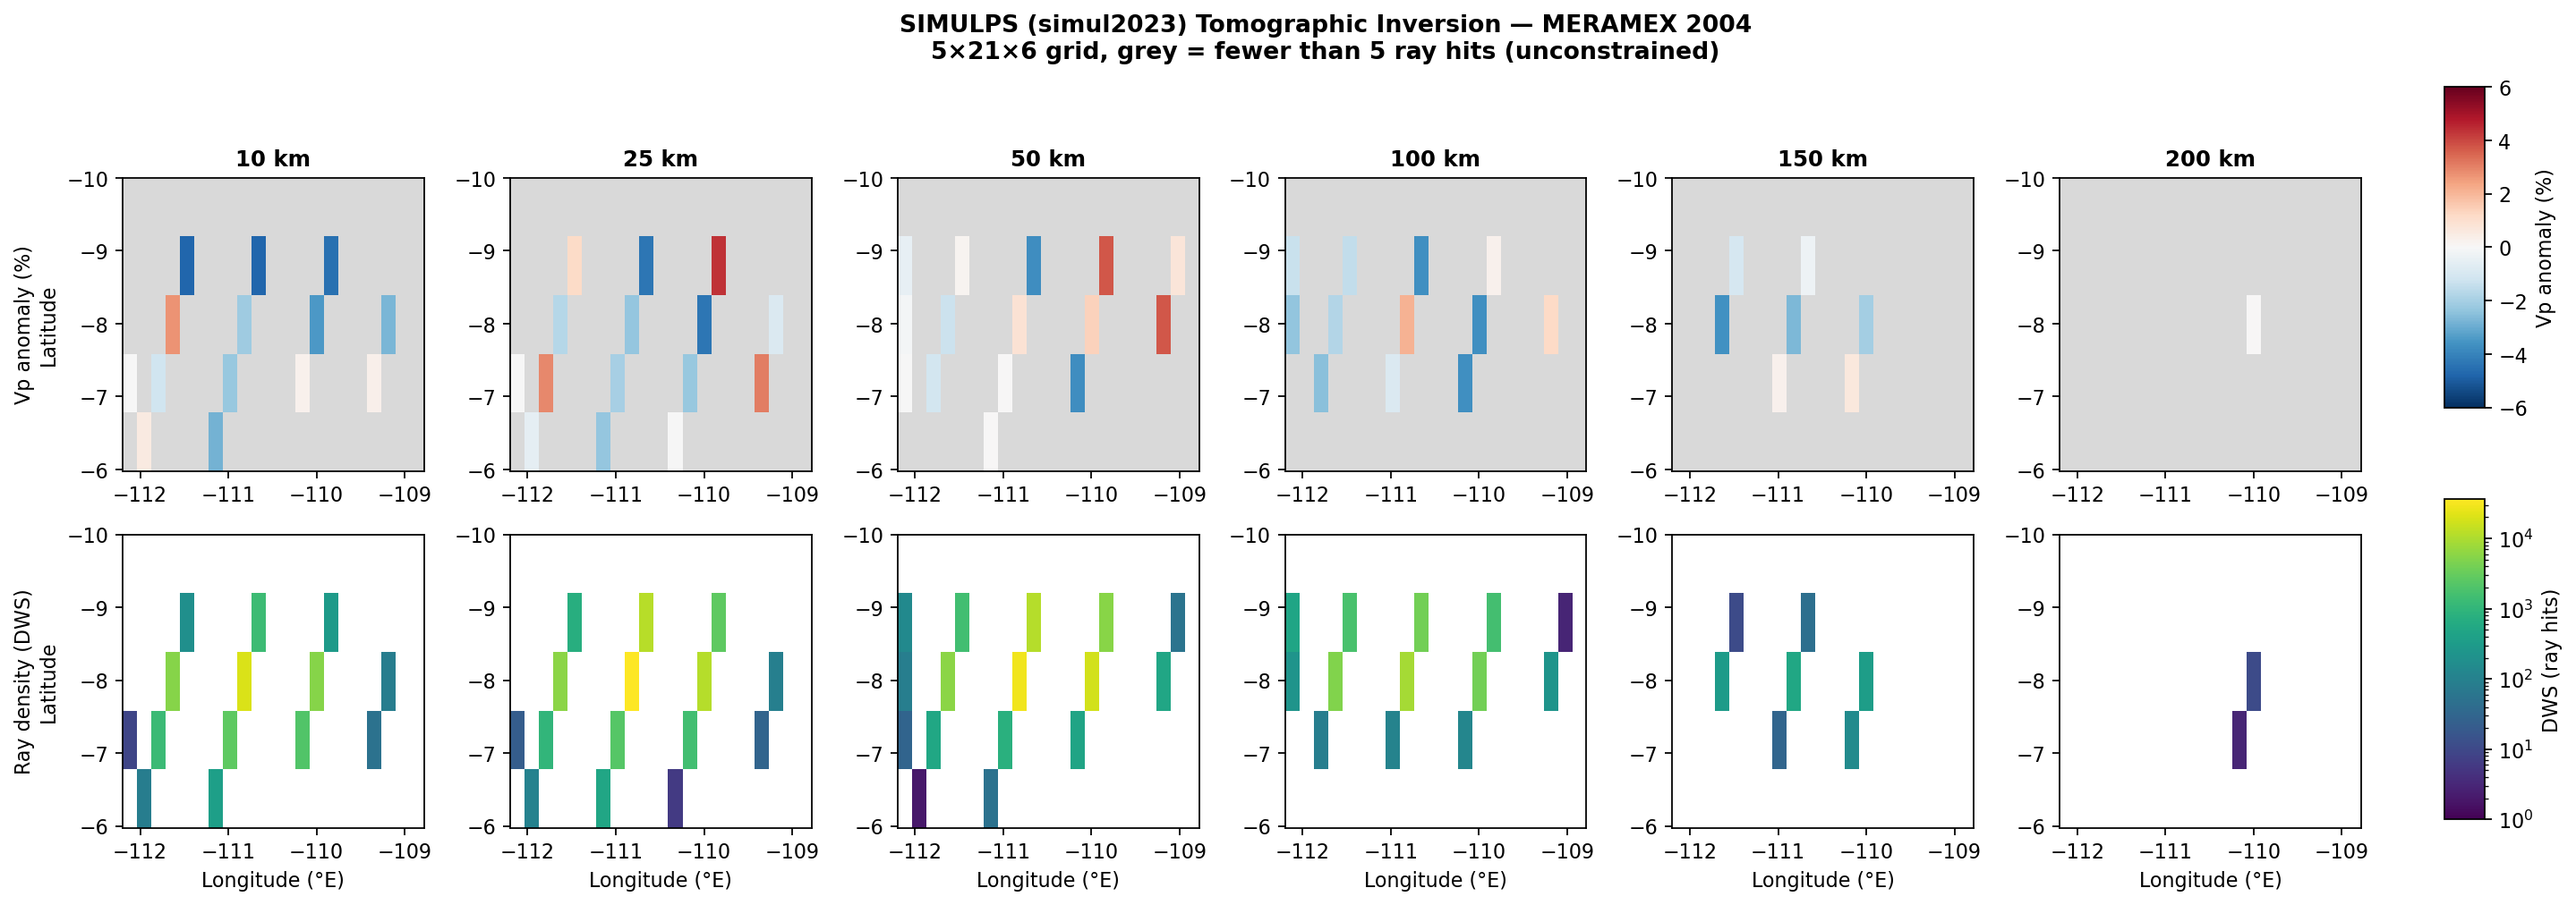
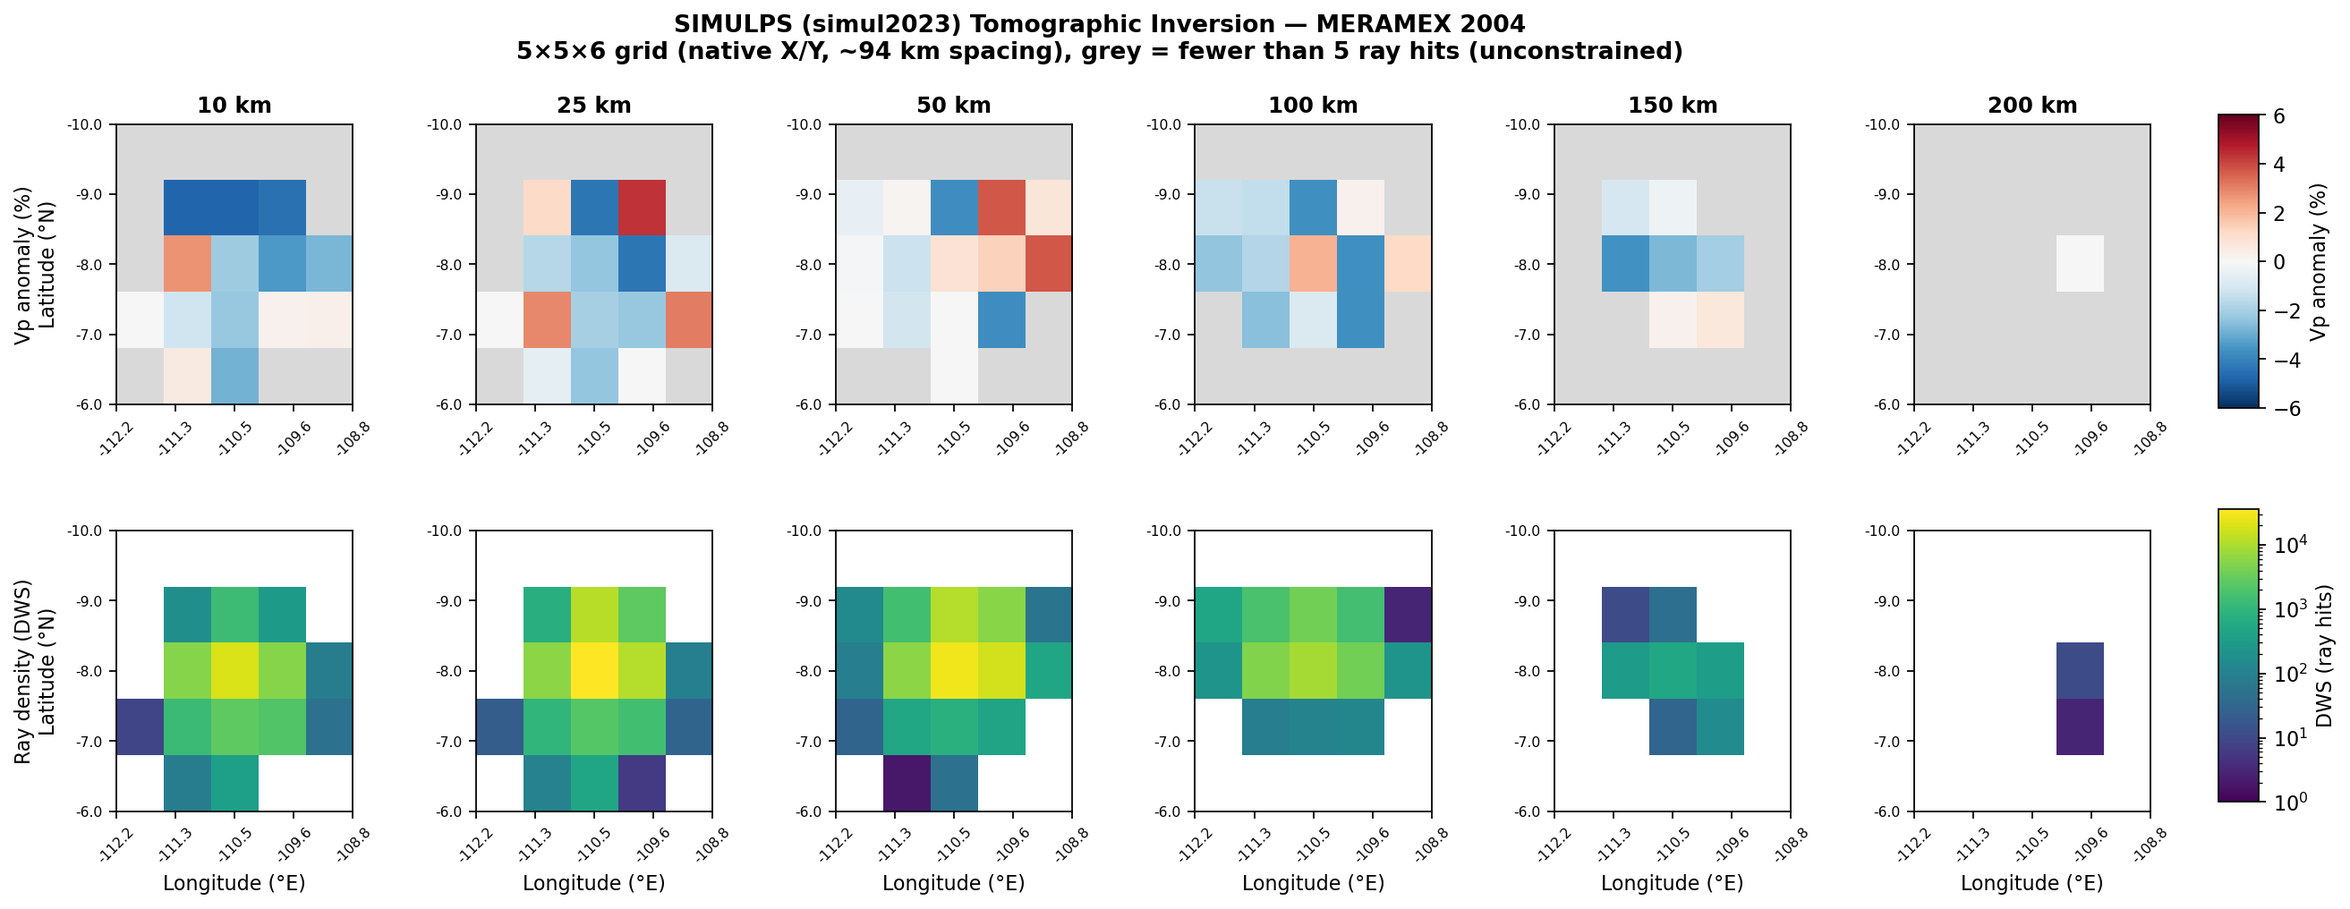
Fix SIMULPS depth-slice plot: pivot on X/Y, not lat/lon
vlxyzltln.out's short-distance conversion scales east-west distance by
cos(latitude), so the same grid column (fixed X) reports a slightly
different longitude at every row -- pivoting directly on lat/lon
fragmented 5 real columns into 21 near-duplicate ones, producing narrow
stripes with grey gaps everywhere else. Pivot on the native X/Y Cartesian
grid instead (exact, since that's what simul2023 actually inverted on)
and relabel axis ticks in lat/lon from the corner values only.

diff --git a/MERAMEX_2004/scripts/plot_simulps_model.py b/MERAMEX_2004/scripts/plot_simulps_model.py
@@ -1,6 +1,14 @@
 #!/usr/bin/env python3
 """Plot depth slices from a SIMULPS (simul2023) vlxyzltln.out velocity table.
 
+Pivots on the native X/Y Cartesian grid (km from the origin), not on
+lat/lon: simul2023's short-distance conversion scales east-west distance by
+cos(latitude), so the same X column maps to a slightly different longitude
+at every row -- pivoting on lat/lon directly fragments each column into as
+many spurious columns as there are rows. Axis ticks are relabelled in
+lat/lon using the corner values only, which is exact since X and Y are the
+true rectangular grid.
+
 Usage:
   plot_simulps_model.py --vlxyz ../simulps/inversion/vlxyzltln.out
       --out ../figures/simulps_velocity_slices.png
@@ -26,53 +34,61 @@ def main():
 
     df = pd.read_csv(a.vlxyz, skiprows=2, sep=r"\s+", names=COLS)
     depths = sorted(df.z.unique())
-    depths = [d for d in depths if d > 0]  # skip the -5/edge layer if present
+    depths = [d for d in depths if d > 0]  # skip the surface/edge layer
 
-    nlat = df.lat.nunique()
-    nlon = df.lon.nunique()
-    lat_u = np.sort(df.lat.unique())
-    lon_u = np.sort(df.lon.unique())
+    x_u = np.sort(df.x.unique())
+    y_u = np.sort(df.y.unique())
+
+    # lat/lon corner lookup for axis labelling only (exact at the grid corners)
+    corner = df[(df.z == depths[0])]
+    lon_at = {x: corner.loc[(corner.x == x) & (corner.y == y_u[0]), "lon"].iloc[0] for x in x_u}
+    lat_at = {y: corner.loc[(corner.y == y) & (corner.x == x_u[0]), "lat"].iloc[0] for y in y_u}
 
     fig, axes = plt.subplots(2, len(depths), figsize=(3.1 * len(depths), 6.4))
 
+    im = imD = None
     for i, z in enumerate(depths):
         sub = df[df.z == z]
-        piv_vp = sub.pivot(index="lat", columns="lon", values="vp").reindex(
-            index=lat_u, columns=lon_u)
-        piv_dws = sub.pivot(index="lat", columns="lon", values="vp_dws").reindex(
-            index=lat_u, columns=lon_u)
+        piv_vp = sub.pivot(index="y", columns="x", values="vp").reindex(index=y_u, columns=x_u)
+        piv_dws = sub.pivot(index="y", columns="x", values="vp_dws").reindex(index=y_u, columns=x_u)
         vp0 = piv_vp.values[piv_dws.values <= a.min_dws]
         vp0 = np.nanmedian(vp0) if vp0.size else np.nanmedian(piv_vp.values)
         pct = 100.0 * (piv_vp.values - vp0) / vp0
         mask = piv_dws.values <= a.min_dws
 
+        extent = [x_u[0], x_u[-1], y_u[-1], y_u[0]]
+
         axT = axes[0, i]
-        im = axT.imshow(np.ma.masked_where(mask, pct), extent=[lon_u[0], lon_u[-1], lat_u[-1], lat_u[0]],
-                        aspect="auto", cmap="RdBu_r", vmin=-6, vmax=6, interpolation="nearest")
+        im = axT.imshow(np.ma.masked_where(mask, pct), extent=extent,
+                        aspect="equal", cmap="RdBu_r", vmin=-6, vmax=6,
+                        interpolation="nearest", origin="upper")
         axT.set_facecolor("0.85")
         axT.set_title(f"{z:.0f} km", fontsize=11, fontweight="bold")
+        axT.set_xticks(x_u); axT.set_xticklabels([f"{lon_at[x]:.1f}" for x in x_u], rotation=45, fontsize=7)
+        axT.set_yticks(y_u); axT.set_yticklabels([f"{lat_at[y]:.1f}" for y in y_u], fontsize=7)
         if i == 0:
-            axT.set_ylabel("Vp anomaly (%)\nLatitude")
-        axT.set_xlabel("")
+            axT.set_ylabel("Vp anomaly (%)\nLatitude (°N)")
 
         axB = axes[1, i]
-        imD = axB.imshow(piv_dws.values, extent=[lon_u[0], lon_u[-1], lat_u[-1], lat_u[0]],
-                         aspect="auto", cmap="viridis", norm=matplotlib.colors.LogNorm(
-                             vmin=1, vmax=max(df.vp_dws.max(), 2)))
+        imD = axB.imshow(piv_dws.values, extent=extent, aspect="equal", cmap="viridis",
+                         norm=matplotlib.colors.LogNorm(vmin=1, vmax=max(df.vp_dws.max(), 2)),
+                         origin="upper")
+        axB.set_xticks(x_u); axB.set_xticklabels([f"{lon_at[x]:.1f}" for x in x_u], rotation=45, fontsize=7)
+        axB.set_yticks(y_u); axB.set_yticklabels([f"{lat_at[y]:.1f}" for y in y_u], fontsize=7)
         axB.set_xlabel("Longitude (°E)")
         if i == 0:
-            axB.set_ylabel("Ray density (DWS)\nLatitude")
+            axB.set_ylabel("Ray density (DWS)\nLatitude (°N)")
 
-    cbar_ax = fig.add_axes([0.92, 0.55, 0.015, 0.35])
+    fig.subplots_adjust(right=0.90, top=0.86, wspace=0.35, hspace=0.45)
+    cbar_ax = fig.add_axes([0.92, 0.55, 0.015, 0.32])
     fig.colorbar(im, cax=cbar_ax, label="Vp anomaly (%)")
-    cbar_ax2 = fig.add_axes([0.92, 0.1, 0.015, 0.35])
+    cbar_ax2 = fig.add_axes([0.92, 0.12, 0.015, 0.32])
     fig.colorbar(imD, cax=cbar_ax2, label="DWS (ray hits)")
 
     fig.suptitle("SIMULPS (simul2023) Tomographic Inversion — MERAMEX 2004\n"
-                 f"{df.lat.nunique()}×{df.lon.nunique()}×{len(depths)} grid, "
+                 f"{len(x_u)}×{len(y_u)}×{len(depths)} grid (native X/Y, ~94 km spacing), "
                  "grey = fewer than 5 ray hits (unconstrained)",
                  fontsize=12, fontweight="bold")
-    fig.tight_layout(rect=[0, 0, 0.90, 0.93])
 
     os.makedirs(os.path.dirname(a.out), exist_ok=True)
     fig.savefig(a.out, dpi=160, bbox_inches="tight")
